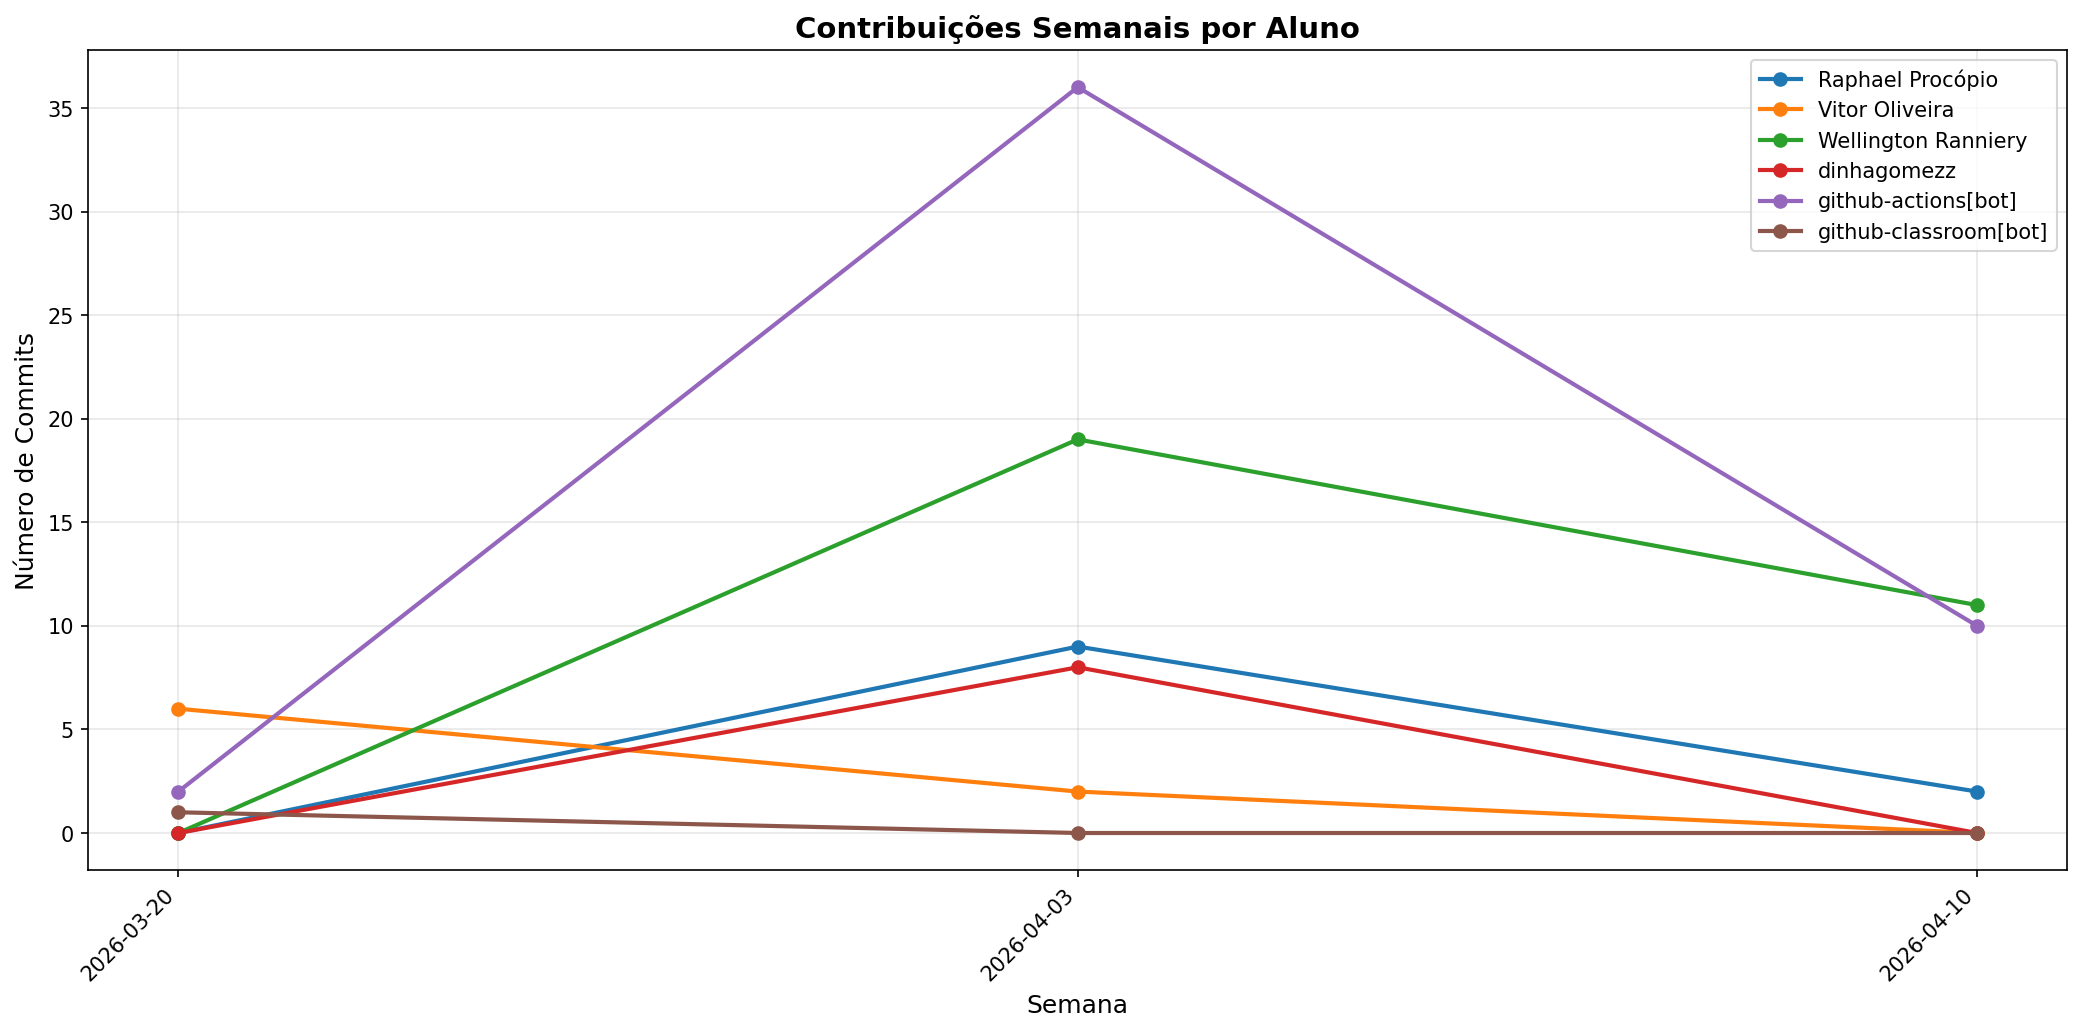
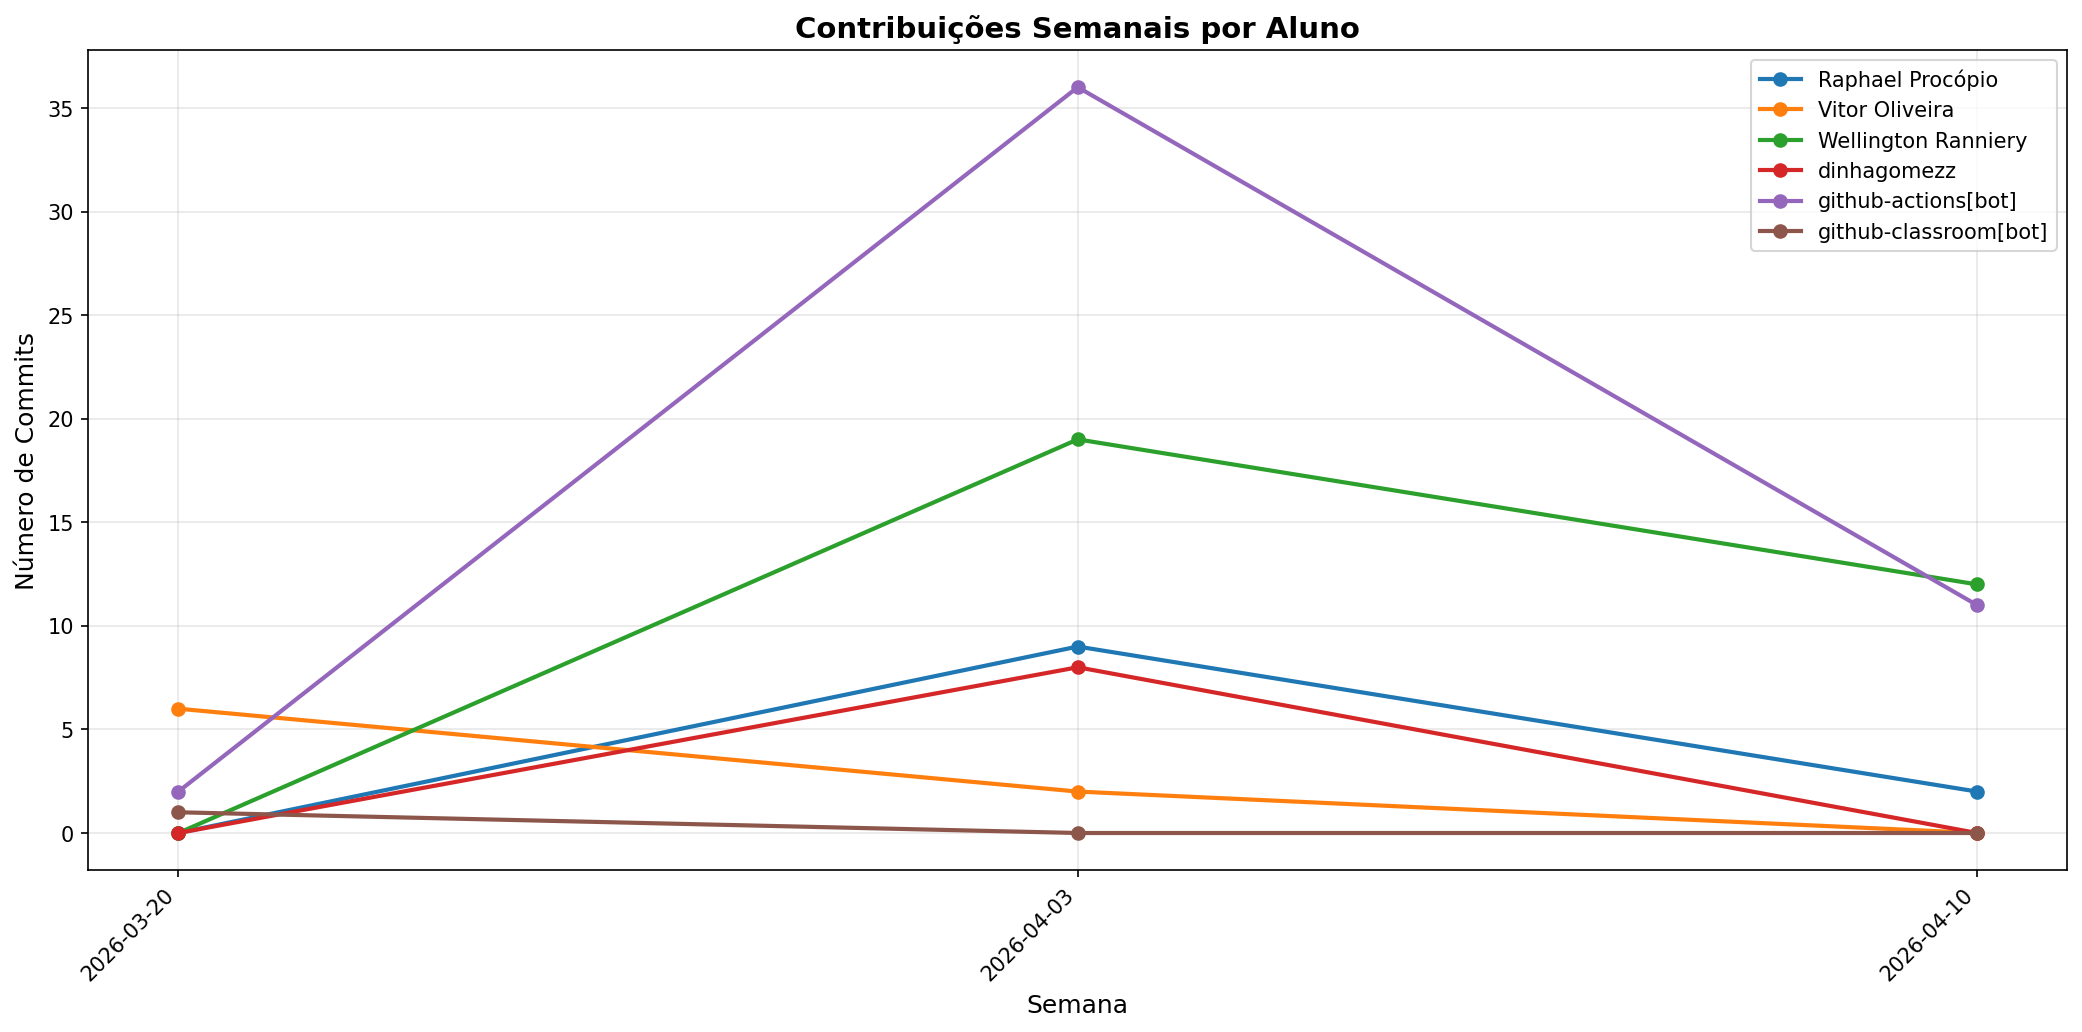
📊 Atualizar relatório de contribuições [skip ci]

diff --git a/documentos/CONTRIBUTION_REPORT.md b/documentos/CONTRIBUTION_REPORT.md
@@ -1,6 +1,6 @@
 # 📊 Relatório de Contribuições do Projeto
 
-**Última atualização:** 17/04/2026 21:26
+**Última atualização:** 17/04/2026 21:45
 
 ---
 
@@ -10,15 +10,15 @@
 |-----------------------|-----------|-----------|-----------|------------|----------------|-----------------|
 | Raphael Procópio      |        11 |       132 |        48 |          1 |             11 |               1 |
 | Vitor Oliveira        |         8 |        70 |        39 |          3 |              7 |               1 |
-| Wellington Ranniery   |        30 |       600 |       133 |          7 |             29 |               2 |
+| Wellington Ranniery   |        31 |       600 |       133 |         10 |             29 |               2 |
 | dinhagomezz           |         8 |        19 |        15 |          1 |              8 |               1 |
-| github-actions[bot]   |        48 |       249 |       197 |          3 |             48 |               1 |
+| github-actions[bot]   |        49 |       255 |       203 |          3 |             49 |               1 |
 | github-classroom[bot] |         1 |       774 |         0 |         19 |              1 |               3 |
 
 
 ## 📅 Contribuições Semanais (Todo o Semestre)
 
-**2026-04-10**: Raphael Procópio: 2, Wellington Ranniery: 11, github-actions[bot]: 10
+**2026-04-10**: Raphael Procópio: 2, Wellington Ranniery: 12, github-actions[bot]: 11
 
 **2026-04-03**: Raphael Procópio: 9, Vitor Oliveira: 2, Wellington Ranniery: 19, dinhagomezz: 8, github-actions[bot]: 36
 
